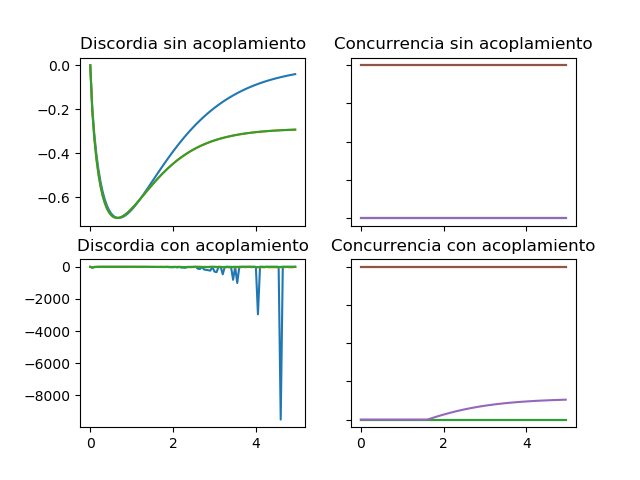
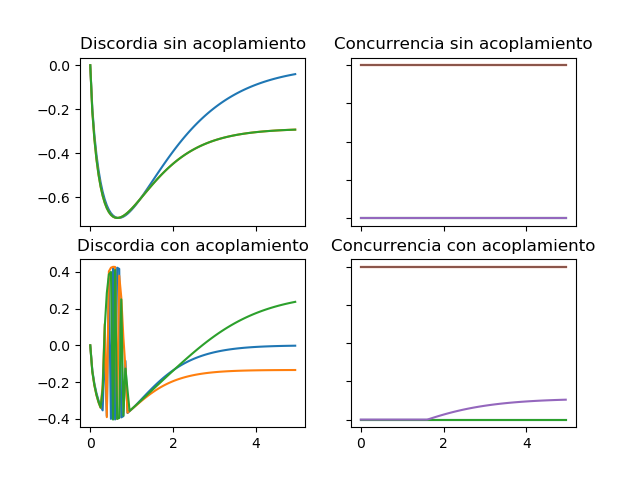
Cambio generado con script

Changed region(s): [[0.0312, 0.5312, 0.4688, 0.9062]]

diff --git a/master.py b/master.py
@@ -49,7 +49,10 @@ def me3(IN,RES):
            ent_comp[1]=entropy_cond(a.matrix_element(tensor(basis(2,0),basis(2,0)).dag(),tensor(basis(2,0),basis(2,0)))+a.matrix_element(tensor(basis(2,1),basis(2,0)).dag(),tensor(basis(2,1),basis(2,0))),a.matrix_element(tensor(basis(2,0),basis(2,1)).dag(),tensor(basis(2,0),basis(2,1)))+a.matrix_element(tensor(basis(2,1),basis(2,1)).dag(),tensor(basis(2,1),basis(2,1))),(a.matrix_element(tensor(basis(2,0),basis(2,0)).dag(),tensor(basis(2,0),basis(2,0)))-a.matrix_element(tensor(basis(2,1),basis(2,0)).dag(),tensor(basis(2,1),basis(2,0))))/(a.matrix_element(tensor(basis(2,0),basis(2,1)).dag(),tensor(basis(2,0),basis(2,1)))+a.matrix_element(tensor(basis(2,1),basis(2,1)).dag(),tensor(basis(2,1),basis(2,1)))),(a.matrix_element(tensor(basis(2,0),basis(2,1)).dag(),tensor(basis(2,0),basis(2,1)))-a.matrix_element(tensor(basis(2,1),basis(2,1)).dag(),tensor(basis(2,1),basis(2,1))))/(a.matrix_element(tensor(basis(2,0),basis(2,0)).dag(),tensor(basis(2,0),basis(2,0)))+a.matrix_element(tensor(basis(2,1),basis(2,0)).dag(),tensor(basis(2,1),basis(2,0)))))
         ent_comp[2]=entropy_cond(0.5,0.5,np.sqrt(((a.matrix_element(tensor(basis(2,0),basis(2,0)).dag(),tensor(basis(2,0),basis(2,0)))-a.matrix_element(tensor(basis(2,1),basis(2,0)).dag(),tensor(basis(2,1),basis(2,0))))+(a.matrix_element(tensor(basis(2,0),basis(2,1)).dag(),tensor(basis(2,0),basis(2,1)))-a.matrix_element(tensor(basis(2,1),basis(2,1)).dag(),tensor(basis(2,1),basis(2,1)))))**2+4*(a.matrix_element(tensor(basis(2,0),basis(2,0)).dag(),tensor(basis(2,1),basis(2,1)))+a.matrix_element(tensor(basis(2,0),basis(2,1)).dag(),tensor(basis(2,1),basis(2,0))))**2),np.sqrt(((a.matrix_element(tensor(basis(2,0),basis(2,0)).dag(),tensor(basis(2,0),basis(2,0)))-a.matrix_element(tensor(basis(2,1),basis(2,0)).dag(),tensor(basis(2,1),basis(2,0))))+(a.matrix_element(tensor(basis(2,0),basis(2,1)).dag(),tensor(basis(2,0),basis(2,1)))-a.matrix_element(tensor(basis(2,1),basis(2,1)).dag(),tensor(basis(2,1),basis(2,1)))))**2+4*(a.matrix_element(tensor(basis(2,0),basis(2,0)).dag(),tensor(basis(2,1),basis(2,1)))-a.matrix_element(tensor(basis(2,0),basis(2,1)).dag(),tensor(basis(2,1),basis(2,0))))**2))
         ent_comp[3]=entropy_cond(0.5,0.5,np.sqrt(((a.matrix_element(tensor(basis(2,0),basis(2,0)).dag(),tensor(basis(2,0),basis(2,0)))-a.matrix_element(tensor(basis(2,1),basis(2,0)).dag(),tensor(basis(2,1),basis(2,0))))+(a.matrix_element(tensor(basis(2,0),basis(2,1)).dag(),tensor(basis(2,0),basis(2,1)))-a.matrix_element(tensor(basis(2,1),basis(2,1)).dag(),tensor(basis(2,1),basis(2,1)))))**2+4*(a.matrix_element(tensor(basis(2,0),basis(2,0)).dag(),tensor(basis(2,1),basis(2,1)))-a.matrix_element(tensor(basis(2,0),basis(2,1)).dag(),tensor(basis(2,1),basis(2,0))))**2),np.sqrt(((a.matrix_element(tensor(basis(2,0),basis(2,0)).dag(),tensor(basis(2,0),basis(2,0)))-a.matrix_element(tensor(basis(2,1),basis(2,0)).dag(),tensor(basis(2,1),basis(2,0))))+(a.matrix_element(tensor(basis(2,0),basis(2,1)).dag(),tensor(basis(2,0),basis(2,1)))-a.matrix_element(tensor(basis(2,1),basis(2,1)).dag(),tensor(basis(2,1),basis(2,1)))))**2+4*(a.matrix_element(tensor(basis(2,0),basis(2,0)).dag(),tensor(basis(2,1),basis(2,1)))-a.matrix_element(tensor(basis(2,0),basis(2,1)).dag(),tensor(basis(2,1),basis(2,0))))**2))              
-        e= min(ent_comp)
+        if min(ent_comp)<0:
+           e=0
+        else:
+           e= min(ent_comp)
         return e
     for i in range (0,100):
         mat=Qobj(sol.states[i])
